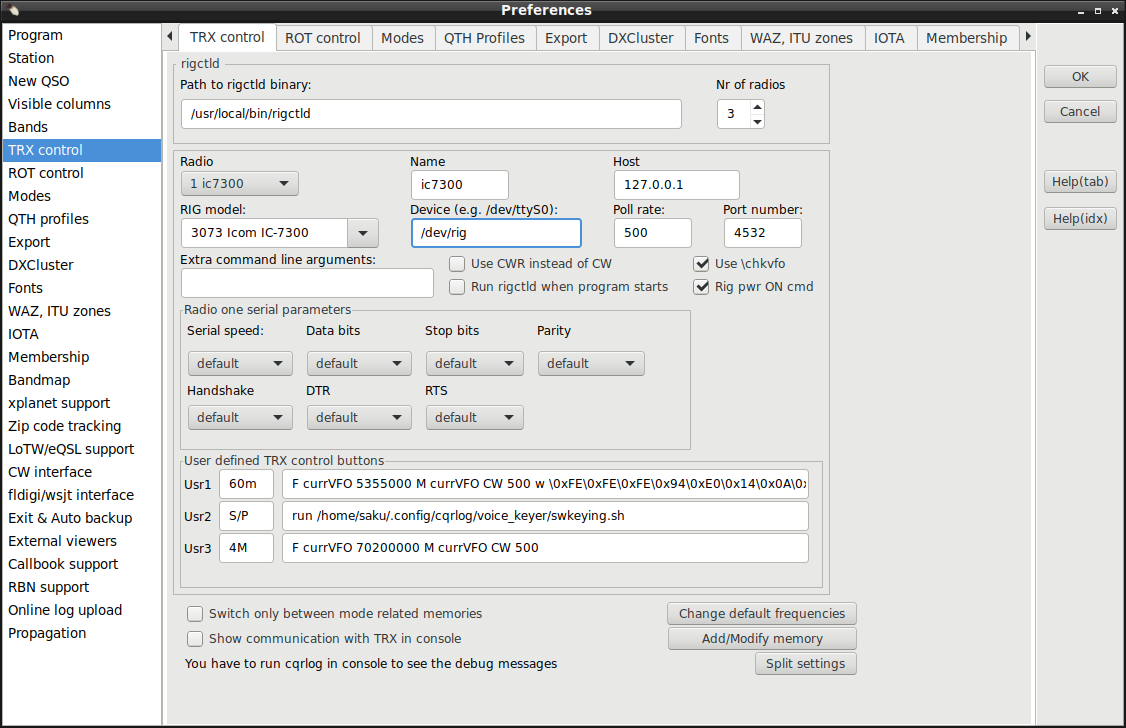
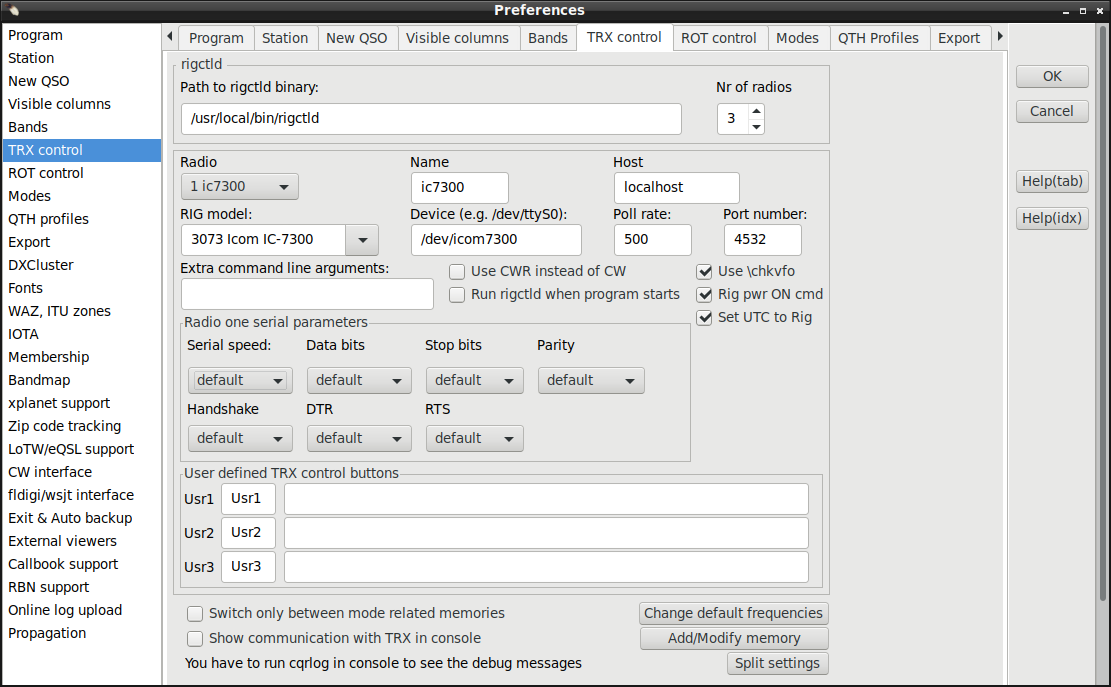
Preferences/TRXControl added checkbox 'Set UTC to Rig'; Help fixed

Changed region(s): [[0.0, 0.0, 1.0, 1.0]]

diff --git a/help/h1.html b/help/h1.html
@@ -281,6 +281,9 @@
     <br><br>
     <strong>Rig pwr ON cmd</strong> When checked Cqrlog will send power ON command at startup to rig if rig can support power commands.
     <br><br>
+    <strong>Set UTC to Rig</strong> When checked Cqrlog will send "set_clock" command with current UTC time to rig on next full minute change after initialization.
+    <br><strong>Note:</strong> All rigs do not support set_clock command.
+    <br><br>
     <strong>User defined TRXControl buttons</strong> can be defined here. Your defined buttons will be shown in the TRX Control window after
      you select this option using the <strong>Preferences menu/Show Usr buttons</strong> in the <strong>TRXControl window.</strong> 
      <br>

diff --git a/src/changelog.html b/src/changelog.html
@@ -10,6 +10,7 @@
     <strong>Alpha test version of CQRLOG 2.6.0 (117)</strong><br>
     New in this alpha version (not in official version):<br>
     <ul style="list-style: square;text-align:left; color: green;" >
+    <li>Preferences/TRXControl: Added checkbox 'Set UTC to Rig'. Uses rigctld '\set_clock' command on next full minute after rig initialization</li>	
     <li>WSJTremote, Map mode: '*' appeared when CQ-callers locator ended '73' (should appear only 'RR73' or ' 73' endings). Fixed</li>	
     <li>Contest: Set TX column lables Green/Red by state of S&P to indicate CW memory auto sending on/off</li>
     <li>Contest: Enable CQ panel also when in S&P</li>
